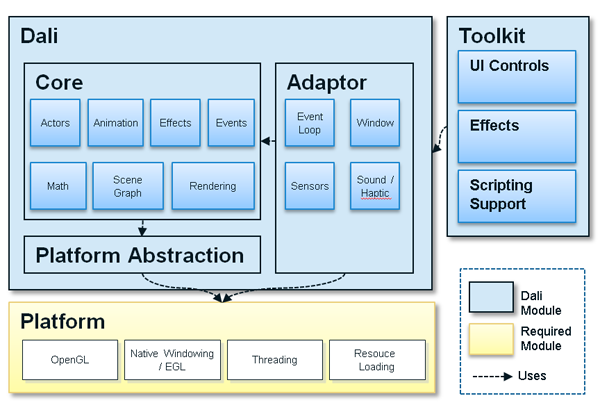
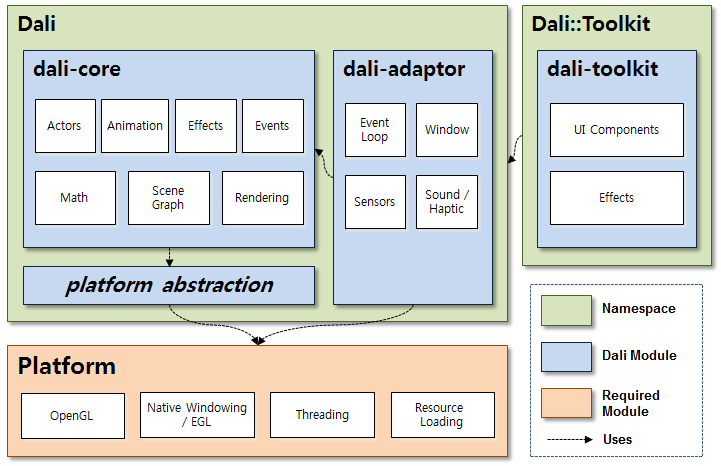
[DALi][DOC-213] Update dali_component.png & signal_slot.png and some description

diff --git a/org.tizen.ui.guides/html/native/dali/dali_overview_n.htm b/org.tizen.ui.guides/html/native/dali/dali_overview_n.htm
@@ -47,7 +47,7 @@
 <h3>Actor and Stage</h3>
 
 <p>Actor is the primary object for interaction in DALi applications. Actors are effective nodes that receive input (touch events) and act as a container for drawable elements and other actors. A DALi application uses a hierarchy of actor objects to position visible content. An actor inherits a position relative to its parent, and can be moved relative to this point. UI components can be built by combining multiple actors.</p>
-<p>Stage is a top-level node of the scene graph used for displaying a tree of actors. To display an actor, add is to the stage.</p>
+<p>Stage is a top-level node of the scene graph used for displaying a tree of actors. To display an actor, add it to the stage.</p>
 
 <h3>Signal and Slot</h3>
 
@@ -68,7 +68,7 @@ DALi.</p>
 <li><span style="font-family: Courier New,Courier,monospace;">dali-toolkit</span>
 <p>This module provides UI components and various effects on top of the dali-core.</p></li>
 <li><span style="font-family: Courier New,Courier,monospace;">dali-adaptor</span>
-<p><span style="font-family: Courier New,Courier,monospace;">dali-adaptor</span> is a platform adaptation layer. It initializes and sets up DALi appropriately. The module provides many platform-related services. Several signals can be connected to it to keep you informed when certain platform-related activities occur.</p></li>
+<p><span style="font-family: Courier New,Courier,monospace;">dali-adaptor</span> is a platform adaptation layer. It initializes and sets up DALi appropriately. The module provides many platform-related services with its internal module, platform abstraction. Several signals can be connected to it to keep you informed when certain platform-related activities occur.</p></li>
 </ul>
 <p class="figure">Figure: DALi internal structure</p>
 <p align="center"><img alt="DALi internal structure" src="../../images/dali_component.png" /></p>

diff --git a/org.tizen.ui.guides/html/native/dali/event_handling_n.htm b/org.tizen.ui.guides/html/native/dali/event_handling_n.htm
@@ -67,7 +67,10 @@
 
 <p>The concept of signal and slots were introduced by Qt for communication between objects. The event mechanism of DALi is inspired by Qt.</p>
 
-<p class="figure">Figure: Signal and slot event handling</p>  
+<p class="figure">Figure: A schematic example of signal-slot connections<br>
+									: Signal 1 is connected to slot 1,<br>
+								 	signal 2 is connected to slot 1 & slot 3, <br>
+									and signal 3 is connected to slot 2.</p>  
 	<p align="center"><img alt="Signal and slot event handling" src="../../images/signal_slot.png"/></p> 
  
 <p>The signal and slot system has following advantages:</p>
